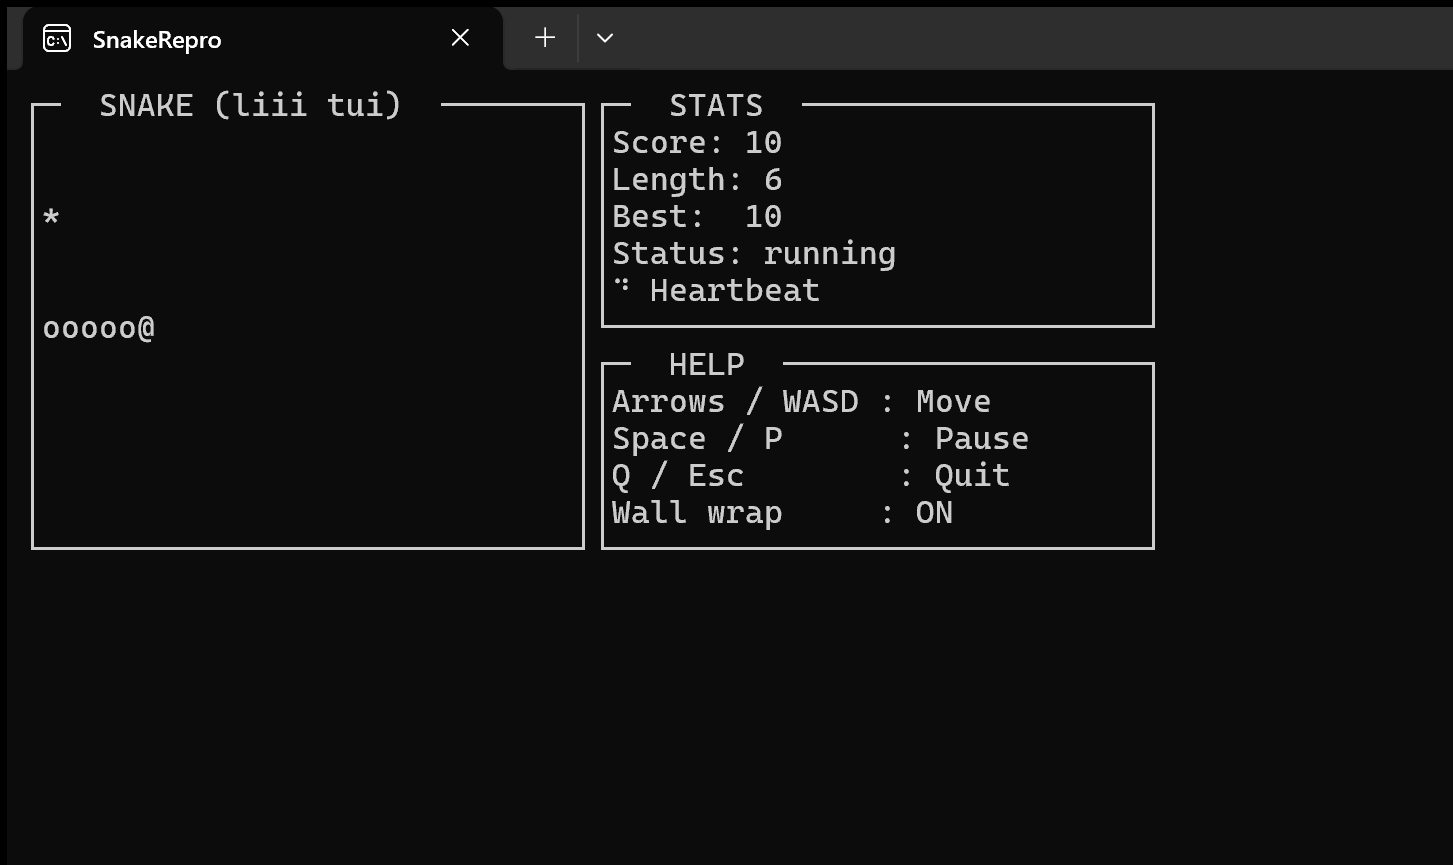
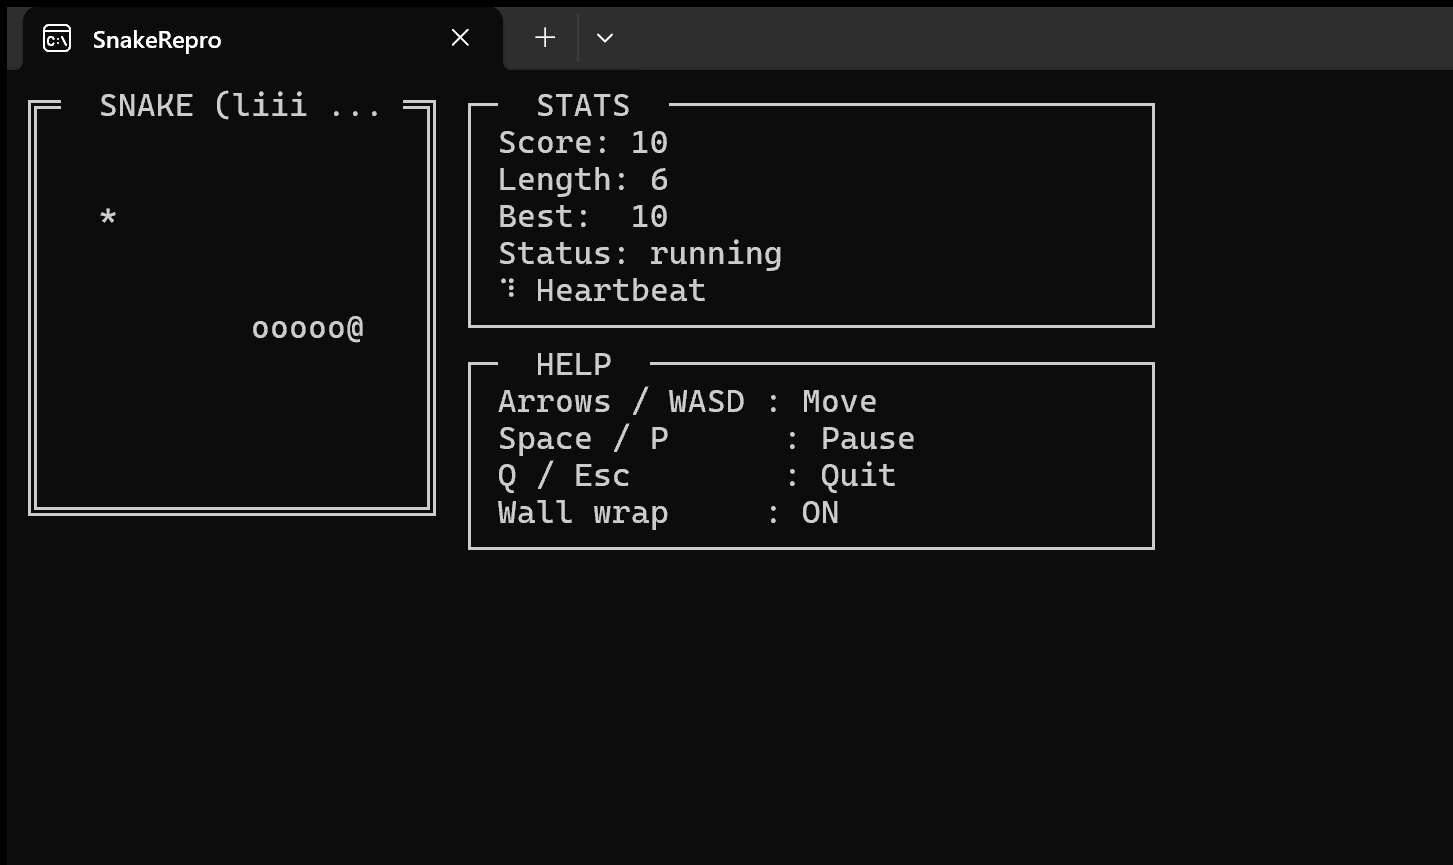
[065] 复核：更新零闪烁连拍证据与任务状态

diff --git a/tools/pi/Agents.md b/tools/pi/Agents.md
@@ -93,7 +93,7 @@ bin/gf pi --mode json "..."      # JSON 模式：JSONL 事件流写 stdout
 | 062 | `(liii tui main-screen)` 差分渲染与屏幕刷新 | 实现基于 `terminal` 的主屏幕输出驱动，比较前后帧行差异（差分渲染），只重绘变化行或追加新行，避免终端闪烁；在 `virtual-terminal` 上断言 viewport 内容、只写变化行、resize 触发全量重绘，并捕获原始 `write()` 验证 ANSI 序列 | 已完成（062.scm 34 项 + 5 个单测全绿；commit `1da40e18`/`f3580ec0` 已推送；google/gemini-3.8-flash） |
 | 063 | `demo/tui/` 终端贪吃蛇游戏验收 | 使用 `(liii tui)` 在 `demo/tui/snake.scm` 实现终端贪吃蛇交互游戏，支持键盘方向键控制、食物生成与贪吃蛇增长、实时计分板、**四面墙壁可穿越（越界后从对侧出现，避免游戏过快结束）**与自碰碰撞判定；验收分两层：① 纯游戏逻辑与脚本化按键回放自动化测试（非 TTY）；② Windows 真实终端冒烟必须用 **Python + pynput** 自动化完成：定位终端窗口、在终端中新建标签页、进入 `~/git/goldfish`、运行贪吃蛇 demo，通过模拟键盘与鼠标事件完成终端控制，并发送键盘事件实际操控贪吃蛇（转向/移动），在启动、移动、计分与结束等关键时刻**截图留档**，最终由模型通过截图判读小游戏是否真正跑通、计分与画面是否正确，脚本、截图与运行记录入库留痕；并**尽可能覆盖 `(liii tui)` 的各项能力**（component、text-width、keys、terminal/virtual-terminal、box/vstack/hstack、loader、editor、main-screen 差分渲染），作为 `(liii tui)` 第一阶段通用库的生动实机交互验收成果。**边界约束：贪吃蛇专属的游戏逻辑与视图必须放在 `demo/tui/`（如 `demo/tui/snake/logic.scm`）及对应测试目录下，不得污染 `goldfish/liii/tui` 通用库；仅通用终端输入能力（如非阻塞按键读取 `terminal-poll-key`）可加入 `(liii tui terminal)`** | 已完成（用户裁定通过；063.scm 32 项 + 单测 100 项全绿；真实终端 Python + pynput 冒烟与截图留档；commit `d93d9ac8`/`08f020b4` 已推送；google/gemini-3.8-flash） |
 | 064 | `(liii tui)` 差分渲染闪烁修复 | **先复现、后修复**：在 Windows Terminal 真实终端中运行 `demo/tui/snake.scm`（及连续帧压测）复现闪烁并留证。**注意：静态截图无法捕捉瞬时闪烁**，复现方法采用：① 捕获原始 ANSI 写入流，逐帧标注 `clear-line` 与 `update` 的先后顺序；② 实现「逐写入重绘模拟器」——每收到一次写入/清行就让虚拟屏幕快照一次，把 `terminal-clear-line` 后、文本写入前的瞬时状态还原为可断言的空白行快照；③ 辅以真实终端人工观察与逐帧录屏（若环境可用）。修复前后用同一套证据对比。确认根因（重点排查：每次 update 前 `terminal-clear-line` 先清行、每帧重复发送 hide-cursor、帧内多次小写入导致终端绘制中间态）；随后修复差分渲染输出路径：变化行改为原地覆写、仅在新行更短时清除行尾，不再先清空整行；仅在光标可见性变化时发送 hide/show；整帧写入用终端同步输出（DECSET 2026，`ESC[?2026h`/`ESC[?2026l`，不支持时安全降级）包裹并统一 flush，杜绝帧中间重绘；在 `virtual-terminal` 捕获原始 ANSI，断言更新行不再出现「clear-line 后紧跟同位置 update」、未变化行零写入、缩短行正确清除尾部、每帧同步边界成对出现；更新 062 相关单测；逐写入重绘模拟器在修复后应不再出现被更新行的空白中间态，且每帧成对出现同步输出边界；真实终端复测确认闪烁消失；单文件 <=300 行、实现文件 MIT 头、测试无协议头。**复现证据（Claude，2026-10-20）**：真实终端 15～16 fps 连拍，4 秒 61 帧中 10 次整行瞬时空白（Heartbeat 行 y=271..308，前后帧 ink 125/126，约每 7 帧一次）；ANSI 流 28 帧中 53 次 `clear-line→cursor→text`，逐写入重放在被更新行产生 40 次空白中间态；复现脚本 `tools/pi/devel/064-capture.py`，证据与前后帧对照见 `tools/pi/devel/064-repro/` | 已完成（064.scm 30 项 + 50 个 TUI 单测全绿；真实连拍 63 帧 0 次空白；用户实机确认不闪烁；REVIEW 两提交已推送；google/gemini-3.8-flash） |
-| 065 | 贪吃蛇中段不可见问题排查与修复 | 用户报告：运行 `demo/tui/snake.scm` 时贪吃蛇身体“中间有一段不可见”；可能是 `demo/tui/snake` 的蛇身/视图实现问题，也可能是 `(liii tui)` 基础设施（box 布局、文本宽度、差分渲染）问题。先稳定复现：构造长蛇与穿墙场景，比较 `render-grid-lines` 的原始行、`virtual-terminal` 屏幕与真实终端画面，确认丢段发生在游戏视图还是终端输出层；再修复并补单测（蛇身每节 `o` 必须出现在预期坐标、穿墙时两侧身体均可见或按设计处理），保留 064 的零闪烁门禁（`064.scm` 与 `064-capture.py` 0 事件）；单文件 <=300 行、实现文件 MIT 头、测试无协议头 | 待执行 |
+| 065 | 贪吃蛇中段不可见问题排查与修复 | 用户报告：运行 `demo/tui/snake.scm` 时贪吃蛇身体“中间有一段不可见”；可能是 `demo/tui/snake` 的蛇身/视图实现问题，也可能是 `(liii tui)` 基础设施（box 布局、文本宽度、差分渲染）问题。先稳定复现：构造长蛇与穿墙场景，比较 `render-grid-lines` 的原始行、`virtual-terminal` 屏幕与真实终端画面，确认丢段发生在游戏视图还是终端输出层；再修复并补单测（蛇身每节 `o` 必须出现在预期坐标、穿墙时两侧身体均可见或按设计处理），保留 064 的零闪烁门禁（`064.scm` 与 `064-capture.py` 0 事件）；单文件 <=300 行、实现文件 MIT 头、测试无协议头 | 已完成（065.scm 42 项 + snake 96 项 + TUI/snake 55 个测试文件全绿；真实连拍 56 帧 0 次空白；用户实机确认中段可见；commit `c8099711`/`b6e5fc91` 已推送；google/gemini-3.8-flash） |
 | 066 | `demo/tui/snake` 示例配色 | 为贪吃蛇示例增加 ANSI 颜色分层（蛇头、蛇身、食物、边框、计分/提示等使用不同 SGR 样式），提升真实终端观感。**关键约束**：颜色序列不得参与显示宽度计算；`virtual-terminal` 的屏幕内容与宽度断言必须能忽略/解析 SGR；差分渲染比较需按“可见文本 + 样式”处理，避免带色行被误判为变长/变短而产生行尾残留或整帧重绘闪烁；支持 `NO_COLOR` 或非 TTY 时安全降级为无色；配色辅助优先放在 `demo/tui/snake/`，若确需通用 ANSI 感知能力则加入 `(liii tui text-width)` 并配单测。验收：新增 066.scm，复跑 062/063/064（含 `064-capture.py` 0 次 blank-band event）与全部 TUI/snake 单测；单文件 <=300 行、实现文件 MIT 头、测试无协议头 | 待执行 |
 | 067 | 贪吃蛇棋盘随终端尺寸自适应 | 运行 `demo/tui/snake.scm` 时，棋盘区域需随终端窗口放大/缩小：启动时用 `terminal-size` 计算可用宽高（扣除棋盘边框、右侧 STATS/HELP 侧栏与间距，设置合理下限如 10x5 与上限）；运行中每帧或按需检测终端尺寸变化，变化时调用 `screen-resize!` 并触发全量重绘；逻辑层新增 `snake-resize`（或等价 API），按新宽高对蛇头/蛇身/食物坐标取模或安全裁剪，缩小时避免越界、重复格与误判自碰；窄终端应折叠侧栏或改为上下布局；`component-render` 宽度改用实际终端宽度；若 Windows 下 `terminal-size` 不能实时反映窗口变化，需实现可测试的轮询/环境变量回退并在文档记录限制。resize 后仍须保持 063/064 的交互与零闪烁（复跑 `064-capture.py` 0 次 blank-band event）；补 logic/view 单测与 067.scm 验收（virtual-terminal 放大/缩小断言），单文件 <=300 行、MIT 头、测试无头 | 待执行 |
 

diff --git a/tools/pi/devel/065.md b/tools/pi/devel/065.md
@@ -83,3 +83,7 @@
 1. `[065][google/gemini-3.8-flash][PLAN] 贪吃蛇中段不可见排查与方案`
 2. `[065][google/gemini-3.8-flash][REVIEW] 贪吃蛇中段不可见：代码`
 3. `[065][google/gemini-3.8-flash][REVIEW] 贪吃蛇中段不可见：验收`
+
+## 执行与验收记录（Claude 维护）
+
+- 2026-10-20 Claude 独立复核：`xmake b goldfish` 通过；`bin/gf fmt` 0 个文件变更；`bin/gf check` OK；TUI/snake 55 个测试文件 0 失败；`view-test.scm` 53 项、`wrap-text-test.scm` 19 项、`062.scm` 35 项、`063.scm` 32 项、`064.scm` 30 项、`065.scm` 42 项全绿；真实终端连拍 56 帧、14.06 fps、**0 次 blank-band event**；用户实机确认“065 我手动测试可以了”。
